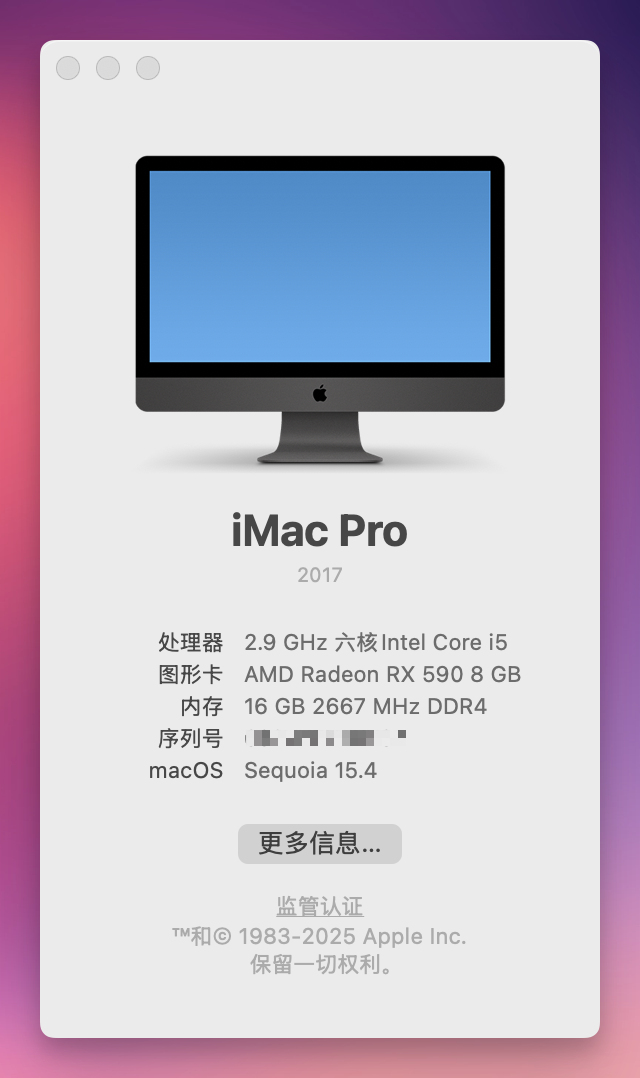
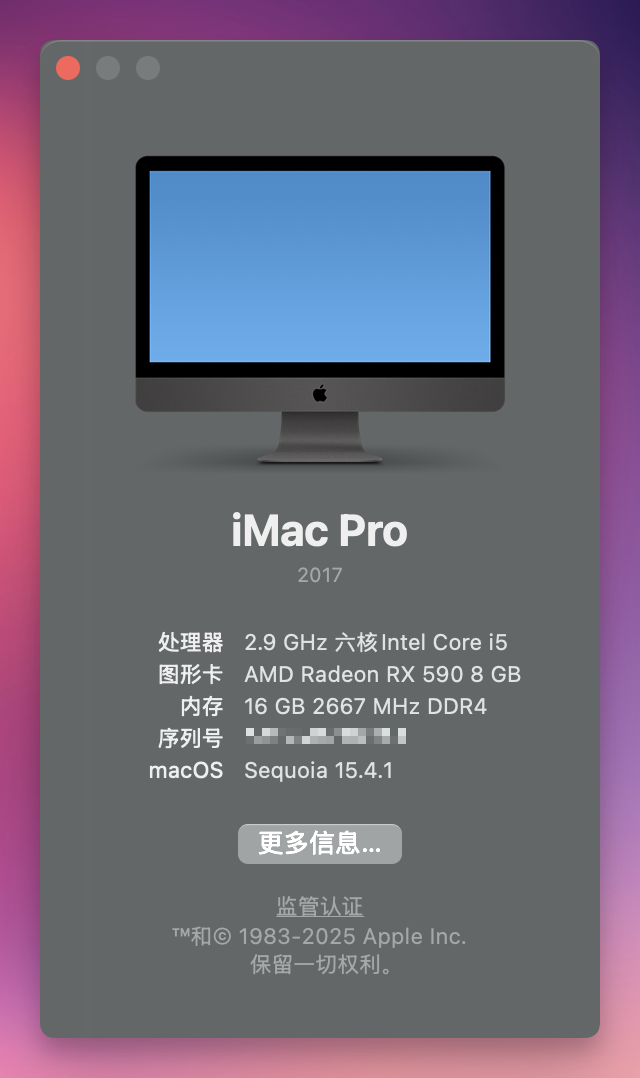
macOS 15.4.1

diff --git a/README.md b/README.md
@@ -1,7 +1,7 @@
 <!---  Update the following   -->
 
-[os_img]: https://img.shields.io/badge/macOS-15.4-6D67E4
-[os_link]: https://support.apple.com/en-hk/122373
+[os_img]: https://img.shields.io/badge/macOS-15.4.1-6D67E4
+[os_link]: https://support.apple.com/en-hk/122400
 
 [oc_img]: https://img.shields.io/badge/OpenCore-1.0.4-519872
 [oc_link]: https://github.com/acidanthera/OpenCorePkg/releases/tag/1.0.4
@@ -39,7 +39,7 @@
 
 | EFI   | macOS             | OC & OCLP         |     -      |
 | ----- | ----------------- | :---------------: | :--------: |
-| 5.3   | 15.4              |  1.0.4 & 2.3.0    | 2025.04.01 |
+| 5.3   | 15.4 ~ 15.4.1     |  1.0.4 & 2.3.0    | 2025.04.01 |
 | 5.2   | 15.2 ~ 15.3.2     |  1.0.3 & 2.2.0    | 2024.12.12 |
 | 5.1   | 15.1              |  1.0.2 & 2.0.2    | 2024.10.30 |
 | 5.0   | 15.0              |  1.0.1 & 2.0.1    | 2024.09.17 |
